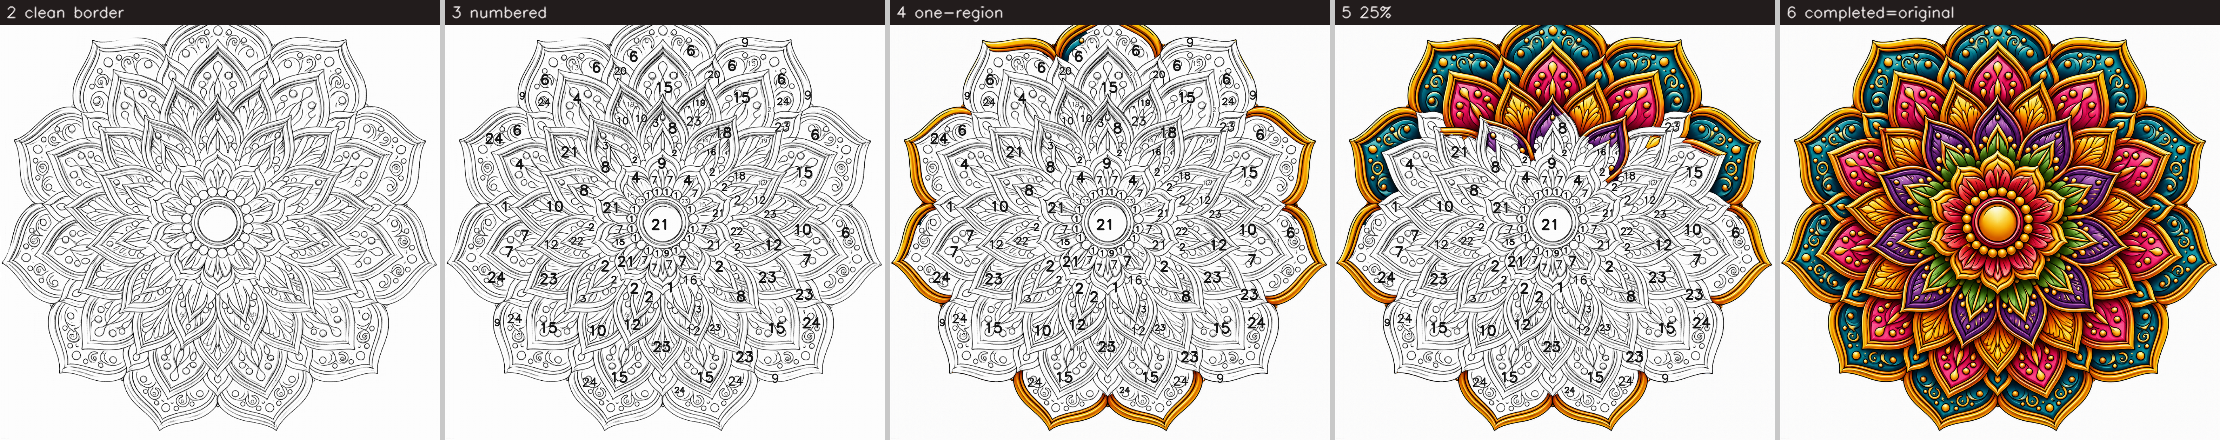
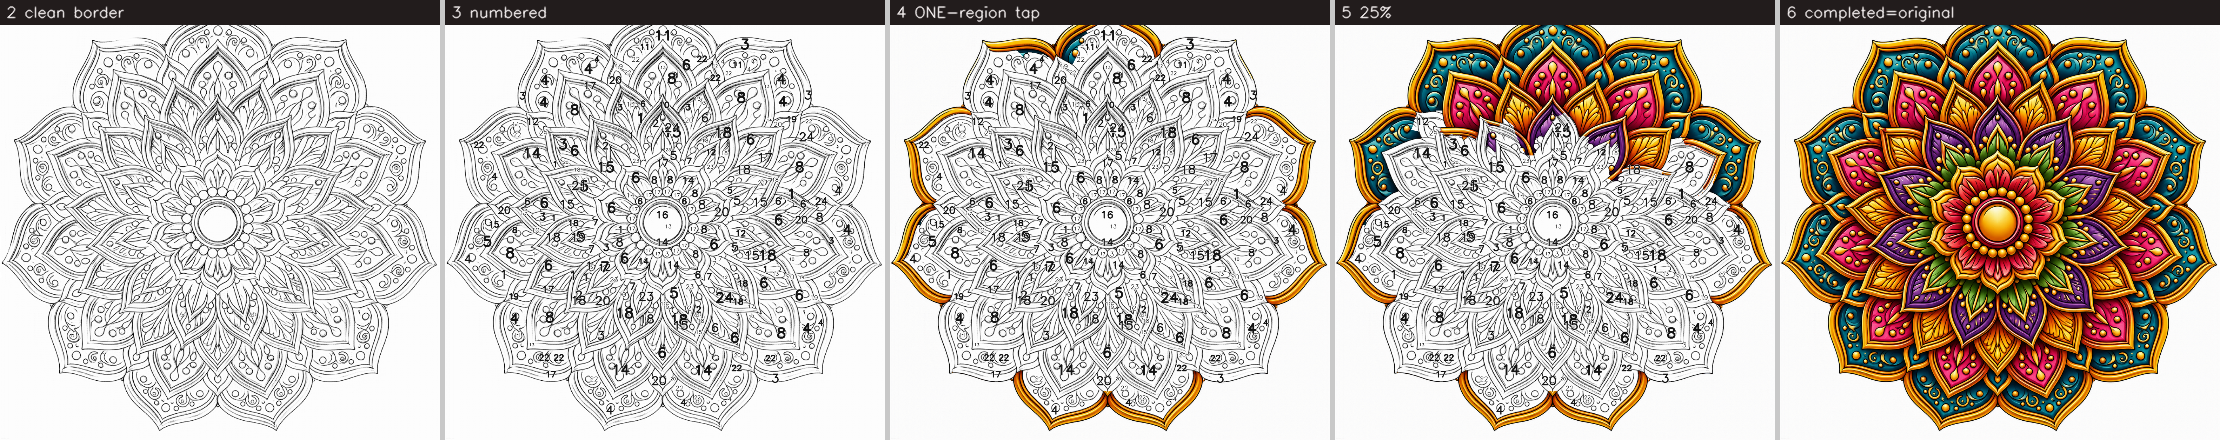
Harder, distinct regions — split line-art cells by colour
Fix: one tap filled a big multi-colour cell (~20% of the sky at once). Each line-art
cell is now split by the original image's colour regions (intersect_color, reusing
ColorForge's existing colour labels), so every playable region is one colour inside one
line-art shape — more regions, each tap fills a small area. Both inputs follow real
structure (line-art + colour), so it stays a non-arbitrary, non-Voronoi region set.

lineart_region_builder.intersect_color(): combine line-art cells x colour labels,
re-merge tiny slivers by inscribed radius (r_min 11), keep masks tiling.
reveal_game_builder.build(): intersect the line-art regions with fill_labels(labels.npy)
when present.

Validation: br_03 139->240 regions (biggest 38% = uniform white margin, fills invisibly);
br_14 119->174 regions, biggest 20%->12% (sky split by colour); both tile 100%, reveal ==
original 0-diff, every region numberable, numbers fit their cell.

diff --git a/backend/services/lineart_region_builder.py b/backend/services/lineart_region_builder.py
@@ -120,6 +120,37 @@ def build_regions(line_gray: np.ndarray, r_min: float = NUMBER_MIN_RADIUS,
     return _relabel(fl)
 
 
+def _premerge_specks(lab: np.ndarray, min_area: int) -> np.ndarray:
+    areas = np.bincount(lab.ravel())
+    for rid in np.where(areas < min_area)[0]:
+        if rid == 0:
+            continue
+        m = lab == rid
+        if not m.any():
+            continue
+        edge = cv2.dilate(m.astype(np.uint8), np.ones((3, 3), np.uint8)).astype(bool) & ~m
+        nb = lab[edge]
+        nb = nb[(nb != 0) & (nb != rid)]
+        if nb.size:
+            lab[m] = int(np.bincount(nb).argmax())
+    return lab
+
+
+def intersect_color(lineart_fl: np.ndarray, color_fl: np.ndarray, r_min: float = 11.0,
+                    min_speck_frac: float = 8e-5) -> np.ndarray:
+    """Split each line-art cell by the original image's colour regions so a single tap never
+    fills a big multi-colour area — every playable region is one colour inside one line-art shape
+    (harder, more distinct). Both inputs follow real structure (line-art + colour), so this is not
+    a polygon/Voronoi fallback. Re-merges tiny slivers and keeps masks tiling."""
+    color_fl = color_fl.astype(np.int64)
+    combo = lineart_fl.astype(np.int64) * (int(color_fl.max()) + 2) + color_fl
+    _, inv = np.unique(combo, return_inverse=True)
+    fl = (inv.reshape(lineart_fl.shape) + 1).astype(np.int32)
+    fl = _premerge_specks(fl, max(40, int(fl.size * min_speck_frac)))
+    fl = _merge_by_radius(fl, r_min)
+    return _relabel(fl)
+
+
 def palette_numbers(original: np.ndarray, fl: np.ndarray, n_colors: int = PALETTE_NUMBERS) -> dict:
     """Group regions' sampled original colours into palette numbers (matching colours share one)."""
     ids = [int(i) for i in np.unique(fl) if i != 0]

diff --git a/backend/services/reveal_game_builder.py b/backend/services/reveal_game_builder.py
@@ -203,6 +203,11 @@ def build(folder: Path) -> dict:
     line = _load_lineart(folder, h, w)
     if line is not None:                                   # regions FROM the line-art shapes
         fl = lineart_region_builder.build_regions(line)
+        if (folder / "labels.npy").exists():               # split big cells by colour (distinct, harder)
+            color = fill_labels(np.load(folder / "labels.npy").astype(np.int32))
+            if color.shape != fl.shape:
+                color = cv2.resize(color, (fl.shape[1], fl.shape[0]), interpolation=cv2.INTER_NEAREST)
+            fl = lineart_region_builder.intersect_color(fl, color)
         numbers = lineart_region_builder.palette_numbers(master, fl)
         meta = lineart_region_builder.region_meta(fl, numbers)
         bdr = _ai_border_bgra(line)

diff --git a/LINE_ART_MODEL_EVALUATION_REPORT.md b/LINE_ART_MODEL_EVALUATION_REPORT.md
@@ -115,12 +115,18 @@ The line-art→regions pipeline is now wired into the game:
   fit their cell (canvas measure-and-shrink, no overlap); reveal source stays the master.
 - **`backend/pipeline.py`** — the AI line-art is generated crisp (`darken=1.5`) so it closes cells.
 
+**Difficulty / distinct regions** — a single tap used to fill a big multi-colour cell (e.g. ~20%
+of the sky at once). Each line-art cell is now **split by the original image's colour regions**
+(`intersect_color`, using ColorForge's existing colour labels) so every playable region is *one
+colour inside one line-art shape*. Both inputs follow real structure (line-art + colour), so this
+is still not a polygon/Voronoi fallback. Result: more regions, one tap fills a small area.
+
 **Final integrated results** (`final_previews_br_03.png`, `final_previews_br_14.png`):
 
-| Image | regions (from line-art) | palette # | biggest region | tiles 100% | reveal == original |
-|-------|-------------------------|-----------|----------------|------------|--------------------|
-| br_03 mandala | 139 | 24 | 38% (white background) | ✅ | ✅ (0 diff) |
-| br_14 girl/house | 119 | 24 | 20% (sky, separate from houses) | ✅ | ✅ (0 diff) |
+| Image | regions | palette # | biggest region | tiles 100% | reveal == original |
+|-------|---------|-----------|----------------|------------|--------------------|
+| br_03 mandala | 240 | 24 | 38% (uniform **white** margin — fills invisibly; can't split without arbitrary cuts) | ✅ | ✅ (0 diff) |
+| br_14 girl/house | 174 | 24 | 12% (sky split by colour; one tap ≈ a small patch) | ✅ | ✅ (0 diff) |
 
 All hard rules hold: line-art shapes (no polygon/Voronoi), no shadows/texture as borders, masks
 tile the image, **reveal ΔE = 0**, numbers sized to their cell (no overlap), every region numbered.
